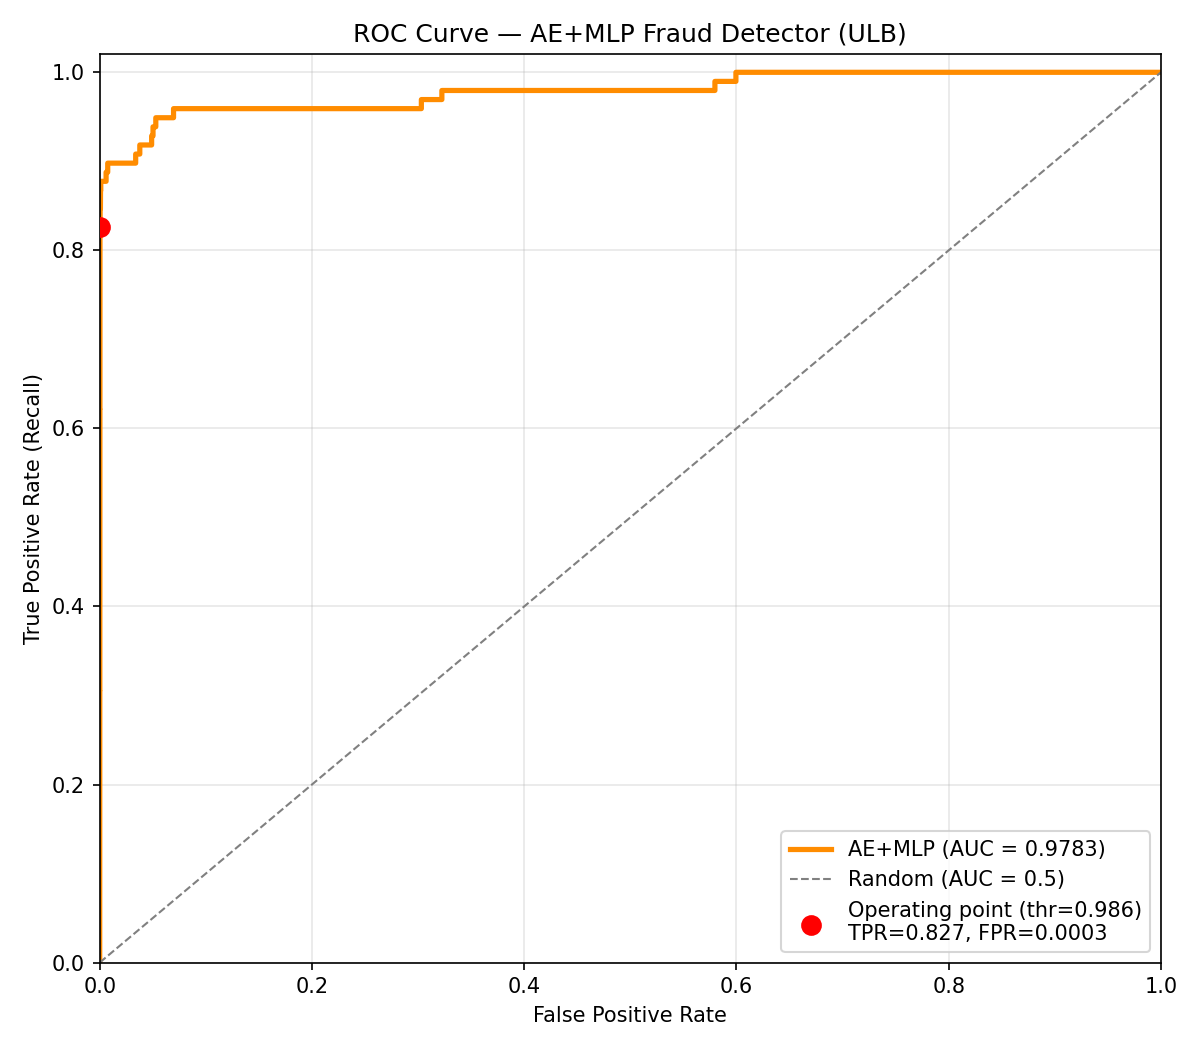
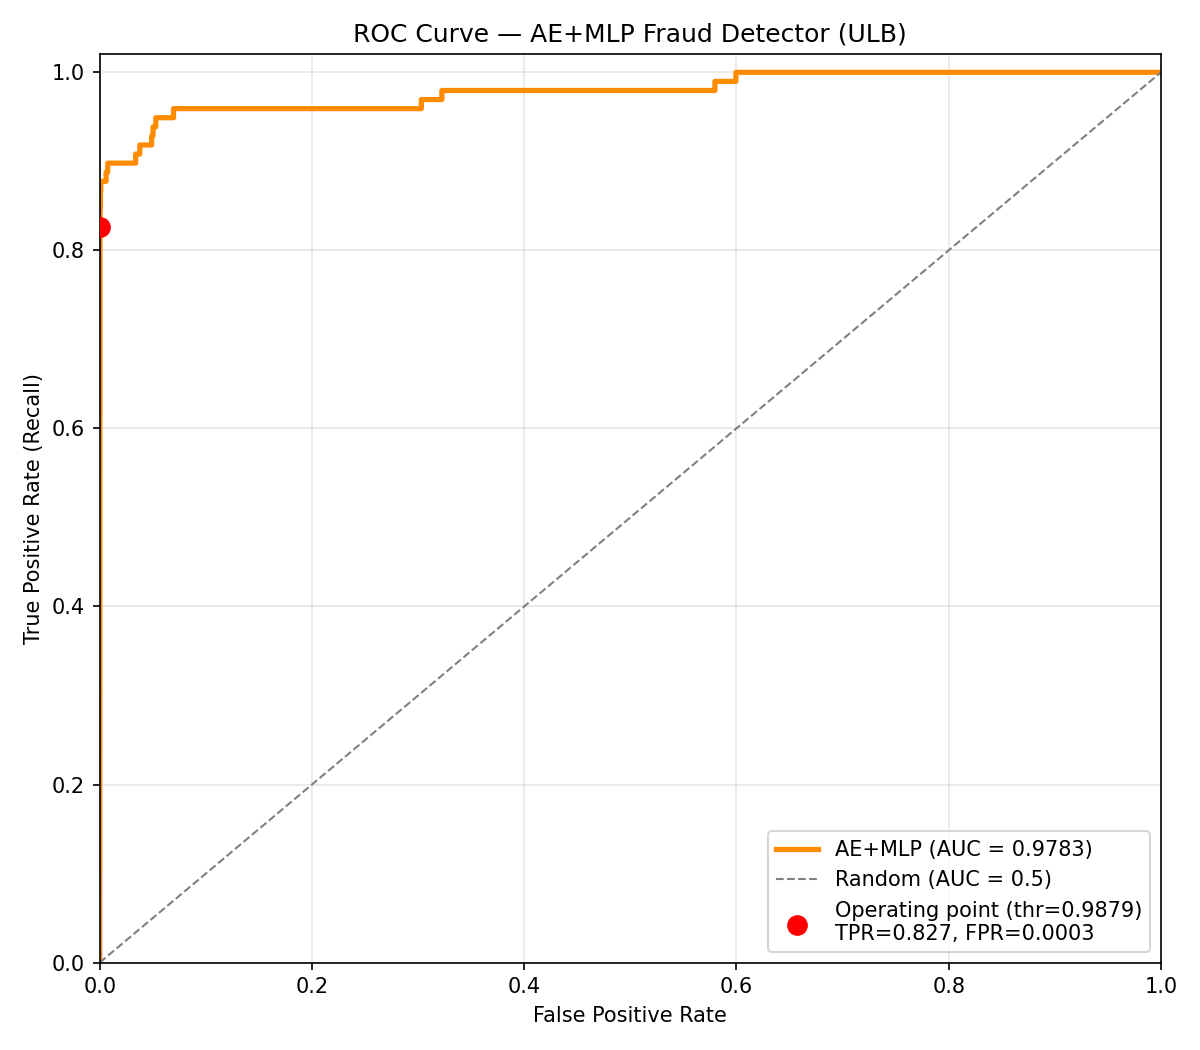
threshold consistency (ulb + sparkov)

Changed region(s): [[0.6475, 0.7924, 0.9558, 0.9143]]

diff --git a/training/analysis/03_roc_curve.py b/training/analysis/03_roc_curve.py
@@ -5,7 +5,7 @@ import numpy as np
 import matplotlib.pyplot as plt
 from sklearn.metrics import roc_curve, roc_auc_score
 
-from _shared import load_test_set, predict_proba_mlp, OUT_DIR
+from _shared import load_test_set, predict_proba_mlp, load_optimal_threshold, OUT_DIR
 
 
 def main() -> None:
@@ -16,7 +16,7 @@ def main() -> None:
     auc = roc_auc_score(y_test, y_probs)
     print(f"AUC-ROC = {auc:.4f}")
 
-    op_thr = 0.986
+    op_thr = load_optimal_threshold("ulb")
     idx = int(np.argmin(np.abs(thr - op_thr)))
     op_fpr, op_tpr = fpr[idx], tpr[idx]
 
@@ -24,7 +24,7 @@ def main() -> None:
     ax.plot(fpr, tpr, color="darkorange", lw=2.5, label=f"AE+MLP (AUC = {auc:.4f})")
     ax.plot([0, 1], [0, 1], color="grey", lw=1, ls="--", label="Random (AUC = 0.5)")
     ax.scatter([op_fpr], [op_tpr], color="red", s=80, zorder=5,
-               label=f"Operating point (thr={op_thr})\nTPR={op_tpr:.3f}, FPR={op_fpr:.4f}")
+               label=f"Operating point (thr={op_thr:.4f})\nTPR={op_tpr:.3f}, FPR={op_fpr:.4f}")
     ax.set_xlim(0, 1)
     ax.set_ylim(0, 1.02)
     ax.set_xlabel("False Positive Rate")
@@ -46,7 +46,7 @@ def main() -> None:
         ax.plot(fpr, tpr, color="darkorange", lw=2.5, label=f"AUC = {auc:.4f}")
         ax.plot([0, 1], [0, 1], color="grey", lw=1, ls="--")
         ax.scatter([op_fpr], [op_tpr], color="red", s=70, zorder=5,
-                   label=f"Op. pt (thr=0.986)")
+                   label=f"Op. pt (thr={op_thr:.4f})")
         ax.set_xlim(*xlim); ax.set_ylim(*ylim)
         ax.set_xlabel("False Positive Rate")
         ax.set_ylabel("True Positive Rate")

diff --git a/go-api/internal/handlers/handlers_test.go b/go-api/internal/handlers/handlers_test.go
@@ -14,7 +14,7 @@ import (
 
 // noAlertCfg returns a Config with no alert destinations (Slack/email disabled).
 func noAlertCfg() *config.Config {
-	return &config.Config{FraudThreshold: 0.5}
+	return &config.Config{}
 }
 
 // VALIDATION TESTS
@@ -182,11 +182,15 @@ func TestHealthCheck_Degraded(t *testing.T) {
 }
 
 // PREDICT HANDLER TESTS
-// mockMLPredict spins up a fake ML service that returns a canned prediction
+// mockMLPredict spins up a fake ML service that returns a canned prediction.
+// The Python service applies its trained threshold and returns is_fraud; the
+// mock mirrors that with a 0.5 cut so existing test inputs (0.02 vs 0.92)
+// continue to land on the right side.
 func mockMLPredict(t *testing.T, probability float64) *httptest.Server {
 	t.Helper()
 	return httptest.NewServer(http.HandlerFunc(func(w http.ResponseWriter, r *http.Request) {
 		resp := models.MLPredictResponse{
+			IsFraud:             probability >= 0.5,
 			FraudProbability:    probability,
 			ReconstructionError: 0.0042,
 		}
@@ -200,6 +204,7 @@ func mockMLPredictWithSHAP(t *testing.T, probability float64) *httptest.Server {
 	t.Helper()
 	return httptest.NewServer(http.HandlerFunc(func(w http.ResponseWriter, r *http.Request) {
 		resp := models.MLPredictResponse{
+			IsFraud:             probability >= 0.5,
 			FraudProbability:    probability,
 			ReconstructionError: 0.0042,
 			ShapValues:          map[string]float64{"V1": 0.12, "V14": -0.08, "Amount_Log": 0.05},

diff --git a/go-api/config/config.go b/go-api/config/config.go
@@ -18,7 +18,6 @@ type Config struct {
 	SMTPUsername     string
 	SMTPPassword     string
 	AlertOnFraud     bool
-	FraudThreshold   float64
 }
 
 func Load() *Config {
@@ -34,7 +33,6 @@ func Load() *Config {
 		SMTPUsername:     getEnv("SMTP_USERNAME", ""),
 		SMTPPassword:     getEnv("SMTP_PASSWORD", ""),
 		AlertOnFraud:     getBoolEnv("ALERT_ON_FRAUD", true),
-		FraudThreshold:   getFloatEnv("FRAUD_THRESHOLD", 0.5),
 	}
 }
 
@@ -54,15 +52,6 @@ func getEnv(key, defaultValue string) string {
 func getBoolEnv(key string, defaultValue bool) bool {
 	if value, exists := os.LookupEnv(key); exists {
 		if parsed, err := strconv.ParseBool(value); err == nil {
-			return parsed
-		}
-	}
-	return defaultValue
-}
-
-func getFloatEnv(key string, defaultValue float64) float64 {
-	if value, exists := os.LookupEnv(key); exists {
-		if parsed, err := strconv.ParseFloat(value, 64); err == nil {
 			return parsed
 		}
 	}

diff --git a/go-api/internal/handlers/handlers.go b/go-api/internal/handlers/handlers.go
@@ -70,7 +70,7 @@ func (h *Handler) Predict(w http.ResponseWriter, r *http.Request) {
 		return
 	}
 
-	isFraud := mlResp.FraudProbability >= h.config.FraudThreshold
+	isFraud := mlResp.IsFraud
 
 	// Step 2: Only compute SHAP if fraud detected
 	if isFraud {
@@ -147,7 +147,7 @@ func (h *Handler) BatchPredict(w http.ResponseWriter, r *http.Request) {
 			continue
 		}
 
-		isFraud := mlResp.FraudProbability >= h.config.FraudThreshold
+		isFraud := mlResp.IsFraud
 
 		if isFraud {
 			mlRespExplained, err := h.mlClient.PredictWithExplanation(ctx, mlReq)
@@ -232,7 +232,7 @@ func (h *Handler) PredictSparkov(w http.ResponseWriter, r *http.Request) {
 		return
 	}
 
-	isFraud := mlResp.FraudProbability >= h.config.FraudThreshold
+	isFraud := mlResp.IsFraud
 
 	// Step 2: Only compute SHAP if fraud detected
 	if isFraud {

diff --git a/python-ml-service/app/models.py b/python-ml-service/app/models.py
@@ -133,12 +133,17 @@ class PredictResponse(BaseModel):
 
     Matches the MLPredictResponse struct from Go:
         type MLPredictResponse struct {
+            IsFraud             bool               `json:"is_fraud"`
             FraudProbability    float64            `json:"fraud_probability"`
             ReconstructionError float64            `json:"reconstruction_error"`
             ShapValues          map[string]float64 `json:"shap_values,omitempty"`
             BaseValue           float64            `json:"base_value,omitempty"`
         }
     """
+    is_fraud: bool = Field(
+        ...,
+        description="True if fraud_probability >= the model's trained optimal threshold"
+    )
     fraud_probability: float = Field(
         ...,
         description="Probability of fraud (0.0 to 1.0)",

diff --git a/python-ml-service/app/main.py b/python-ml-service/app/main.py
@@ -227,9 +227,11 @@ async def predict(
         fraud_probability, reconstruction_error, classifier_input, inference_time_ms = pipeline.predict(
             raw_input
         )
-        
-        # Build response
+
+        # Build response — apply the trained per-dataset threshold here so the
+        # Go API consumes a single authoritative is_fraud boolean.
         response = PredictResponse(
+            is_fraud=fraud_probability >= pipeline.threshold,
             fraud_probability=fraud_probability,
             reconstruction_error=reconstruction_error,
             inference_time_ms=round(inference_time_ms, 4)

diff --git a/test_system.py b/test_system.py
@@ -98,7 +98,7 @@ def test_prediction(
         if response.status_code == 200:
             data = response.json()
             fraud_prob = data.get("fraud_probability", 0)
-            is_fraud = fraud_prob >= 0.5
+            is_fraud = bool(data.get("is_fraud", False))
             
             result_match = (is_fraud == expected_fraud) if expected_fraud is not None else True
             

diff --git a/go-api/internal/models/models.go b/go-api/internal/models/models.go
@@ -177,6 +177,7 @@ type MLSparkovPredictRequest struct {
 }
 
 type MLPredictResponse struct {
+	IsFraud             bool               `json:"is_fraud"`
 	FraudProbability    float64            `json:"fraud_probability"`
 	ReconstructionError float64            `json:"reconstruction_error"`
 	InferenceTimeMs     float64            `json:"inference_time_ms"`

diff --git a/README.md b/README.md
@@ -281,8 +281,11 @@ notes.
 | `ENV`                | `development`           | Environment              |
 | `ML_SERVICE_URL`     | `http://localhost:8000` | Python ML service URL    |
 | `ML_SERVICE_TIMEOUT` | `5s`                    | Request timeout          |
-| `FRAUD_THRESHOLD`    | `0.5`                   | Classification threshold |
 | `SLACK_WEBHOOK_URL`  | -                       | Slack alerts webhook     |
+
+The classification threshold is **not** an env var — it's read by the Python
+ML service from `python-ml-service/models/<dataset>/optimal_threshold.json`
+at startup, and the Go API consumes the `is_fraud` boolean from the response.
 
 ### Python ML Service Environment Variables
 
